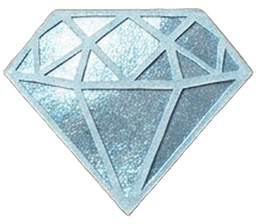
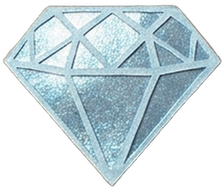
Diamond keeps main's drawn-gem footprint; final demo clips
- Re-audit (Codex + check): main's diamond came from Sprite.Create's default tight mesh, so its bounds
  hugged the drawn gem (112 x 96 px at 120 PPU = 0.9333 x 0.8 units), not the 128 x 112 canvas. The
  diamond art and boil frames are re-cut to 224 x 192 px at 240 PPU, so Hook.HoldInClaw's radius equals
  main's again (0.2333 x 0.2 extents at the prefab's 0.5 scale). Gold already matched exactly.
- Store and character demo clips re-recorded after the treasure re-cut.

diff --git a/Assets/Editor/Art/ArtImportRules.cs b/Assets/Editor/Art/ArtImportRules.cs
@@ -44,8 +44,8 @@ public class ArtImportRules : AssetPostprocessor
         {
             // Treasure: the sprite's bounds are read by gameplay (Hook.HoldInClaw places a carried
             // treasure by them), so they must equal the old look's exactly: full rect, canvas = the old
-            // footprint. Gold: the 1-unit circle (256 px). Diamond: the old 1.0667 x 0.9333 gem
-            // (256 x 224 px at 240 px per unit).
+            // footprint. Gold: the 1-unit circle (256 px). Diamond: the old gem as drawn, 0.9333 x 0.8 units
+            // (its tight mesh hugged the 112 x 96 px gem at 120 px per unit; here 224 x 192 px at 240).
             settings.spriteMeshType = SpriteMeshType.FullRect;
             if (file.StartsWith("Diamond")) settings.spritePixelsPerUnit = 240;
         }
